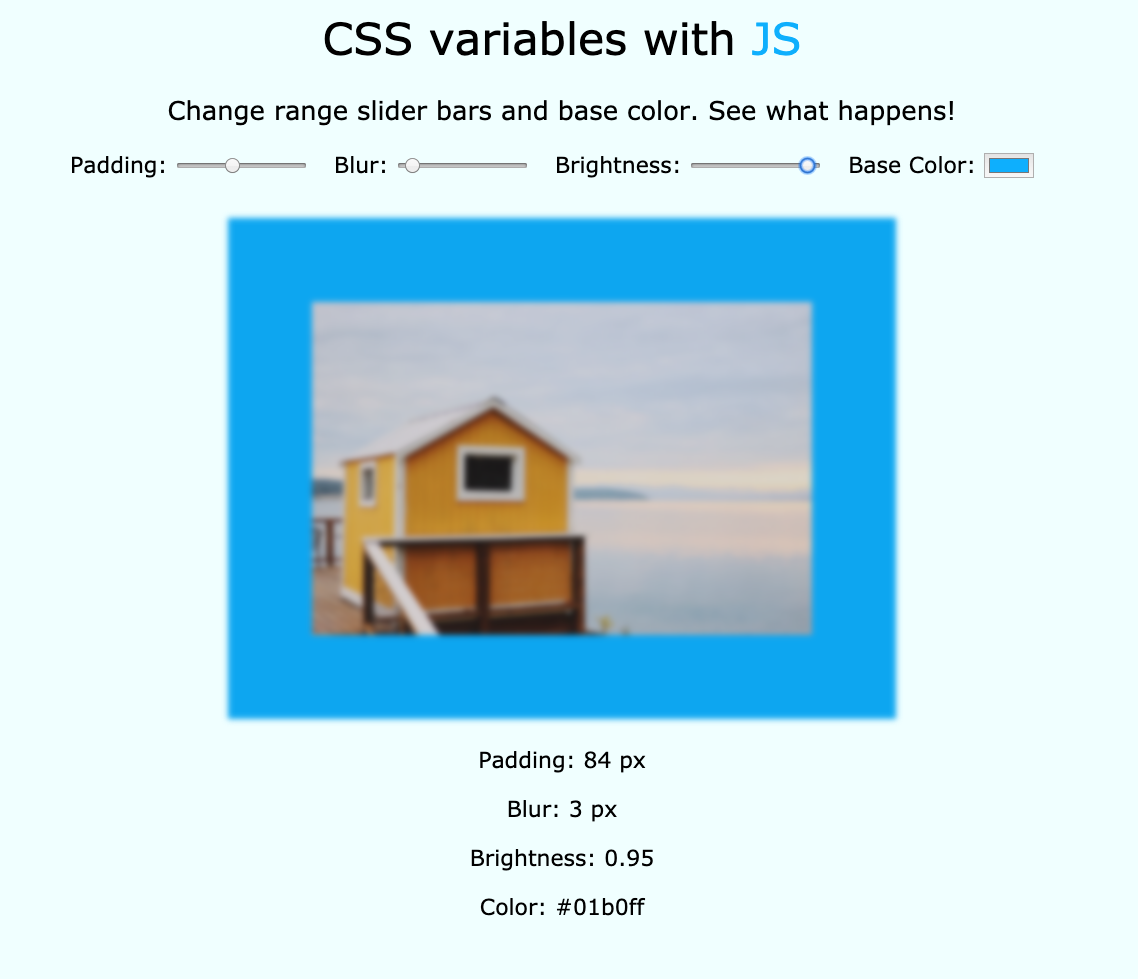
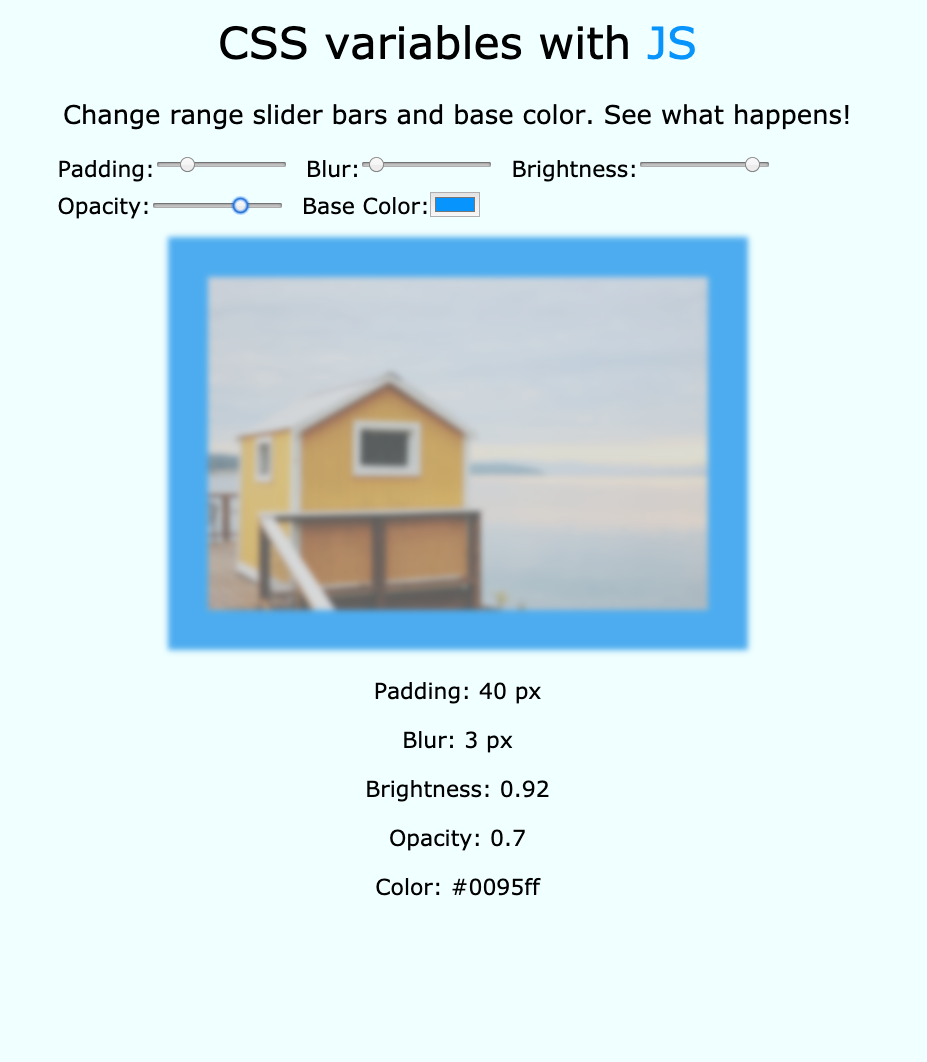
Add opacity to the application.

diff --git a/index.html b/index.html
@@ -20,6 +20,9 @@
         
         <label for="brightness">Brightness:</label>
         <input id="brightness" name="brightness" type="range" min="0" max="1" step="0.01" value="1">
+
+        <label for="opacity">Opacity:</label>
+        <input id="opacity" name="opacity" type="range" min="0" max="1" step="0.1" value="1">
     
         <label for="color">Base Color:</label>
         <input id="color" name="color" type="color" value="#0095ff">
@@ -30,6 +33,7 @@
         <p>Padding: <span id="show-padding"></span> px</p>
         <p>Blur: <span id="show-blur"></span> px</p>
         <p>Brightness: <span id="show-brightness"></span></p>
+        <p>Opacity: <span id="show-opacity"></span></p>
         <p>Color: <span id="show-color"></span></p>
     </div>
     <script src="js/main.js"></script>

diff --git a/css/styles.css b/css/styles.css
@@ -2,6 +2,7 @@
     --base-padding: 0px;
     --base-blur: 0px;
     --base-brightness: 1;
+    --base-opacity: 1;
     --base-color: #0095ff;
 }
 
@@ -18,6 +19,10 @@ h1, h3 {
 
 .container {
     margin-bottom: 20px;
+    max-width: 800px;
+    margin: 0 auto;
+    display: flex;
+    flex-wrap: wrap;
 }
 
 input {
@@ -33,5 +38,5 @@ img {
     max-width: 500px;
     padding: var(--base-padding);
     background: var(--base-color);
-    filter: blur(var(--base-blur)) brightness(var(--base-brightness));
+    filter: blur(var(--base-blur)) brightness(var(--base-brightness)) opacity(var(--base-opacity));
 }

diff --git a/js/main.js b/js/main.js
@@ -14,6 +14,9 @@ const handleUpdate = event => {
         case 'brightness' :
             document.getElementById('show-brightness').innerHTML = event.currentTarget.value;
             break;
+        case 'opacity' :
+            document.getElementById('show-opacity').innerHTML = event.currentTarget.value;
+            break;
         case 'color' :
             document.getElementById('show-color').innerHTML = event.currentTarget.value;
     }

diff --git a/README.md b/README.md
@@ -12,7 +12,8 @@ Please check the challenge from [JavaScript30](http://wesbos.com/javascript30/).
 ## About this Application:
 - `padding` slider range is 0px to 200px.
 - `blur` slider range is 0px to 50px.
-- `brightness` slier range is 0 to 1 (darkest to brightest).
+- `brightness` slider range is 0 to 1 (darkest to brightest).
+- `opacity` slider range is 0 to 1.
 - User can choose a `color` for `padding`. HEX color code will be shown.
 
 
